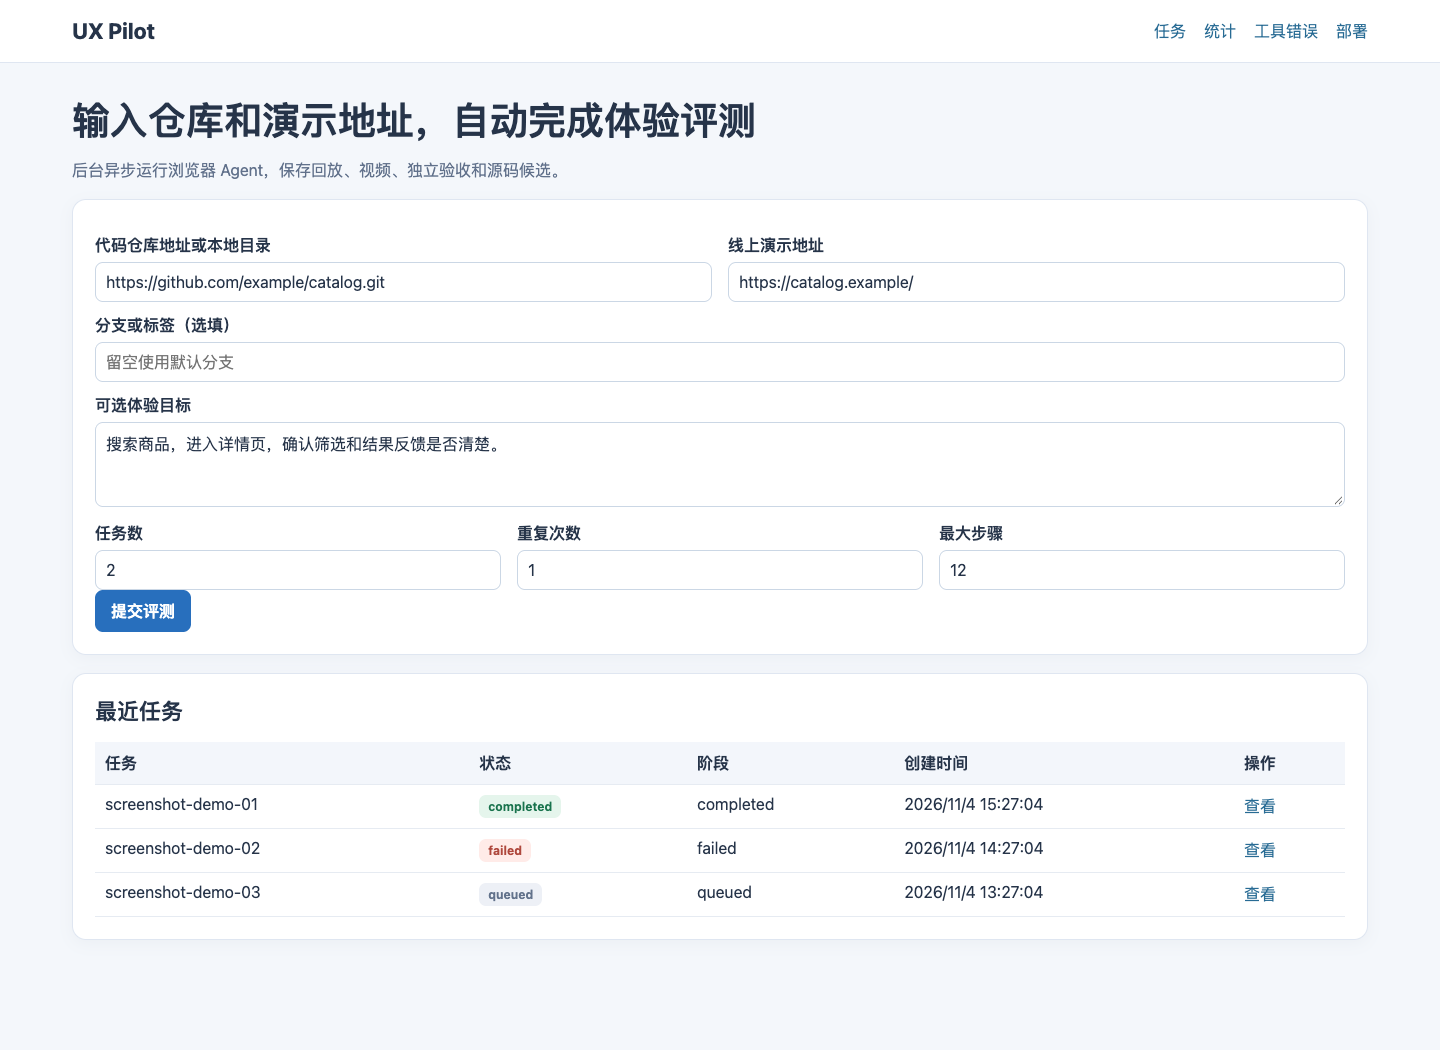
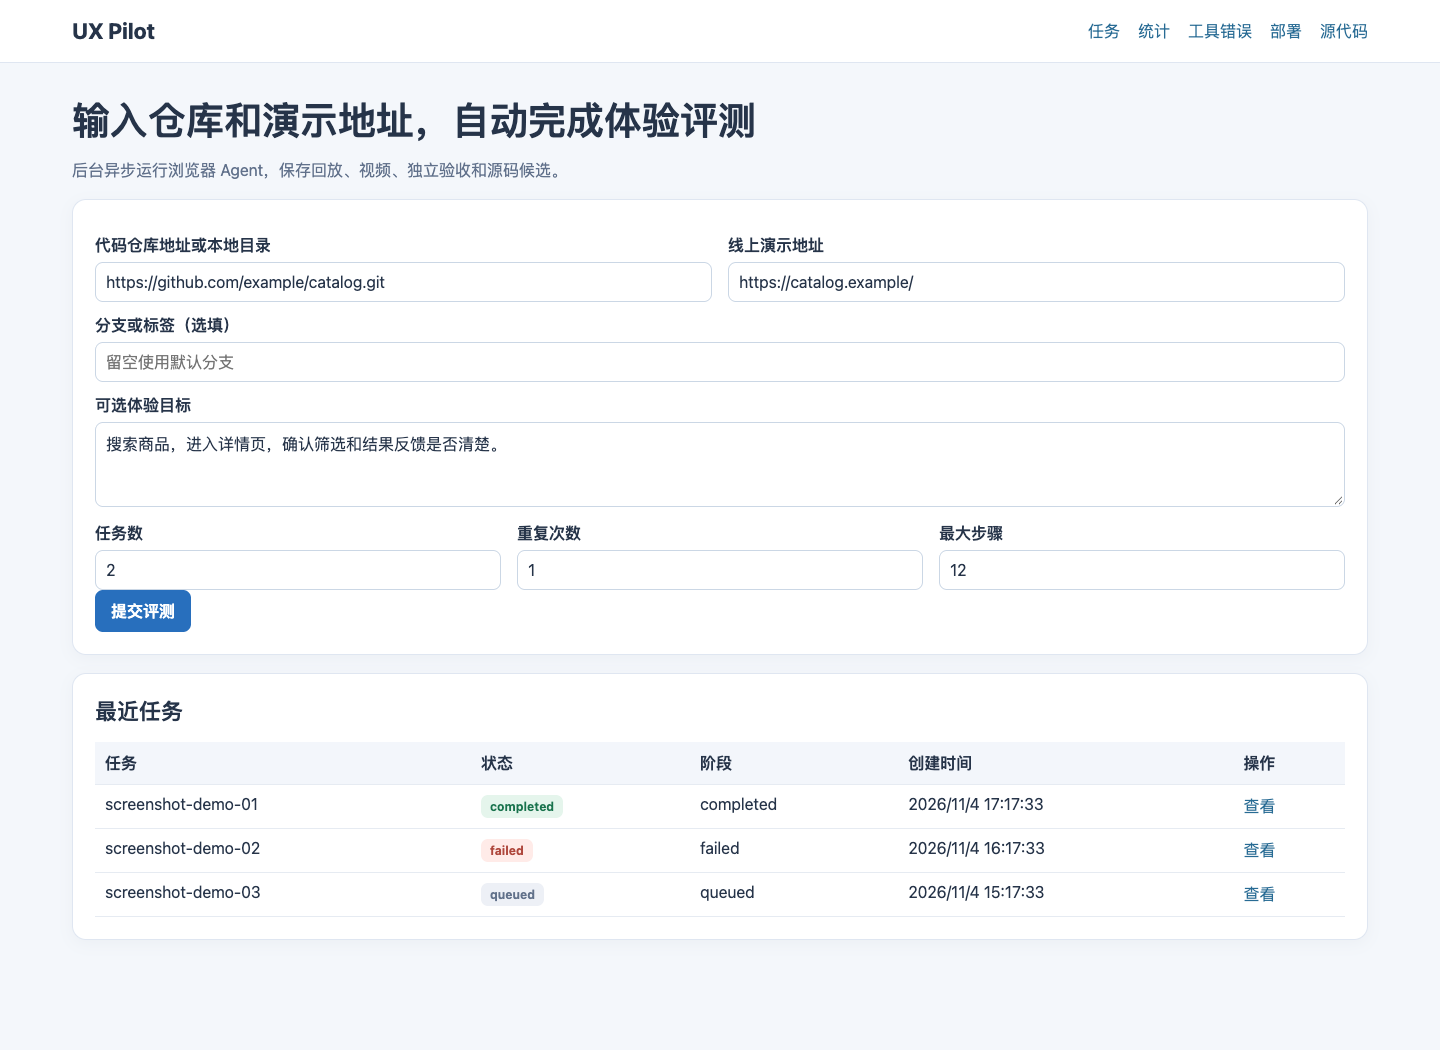
feat: link source repository from header navigation

diff --git a/src/ai_ux/web/deploys.css b/src/ai_ux/web/deploys.css
@@ -1,1 +1,3 @@
 :root{color-scheme:light;--bg:#f6f7f2;--ink:#2b3429;--muted:#79836f;--green:#607c32;--line:#e1e5d9}*{box-sizing:border-box}body{margin:0;background:var(--bg);color:var(--ink);font-family:Inter,-apple-system,BlinkMacSystemFont,"Segoe UI","PingFang SC","Microsoft YaHei",sans-serif}a{color:var(--green);text-decoration:none}a:hover{text-decoration:underline}button,a,summary{touch-action:manipulation}a:focus-visible,button:focus-visible,.table-scroll:focus-visible{outline:2px solid var(--green);outline-offset:4px}.topbar{min-height:84px;padding:20px 4.5%;border-bottom:1px solid var(--line);display:flex;align-items:center;justify-content:space-between;gap:24px}.brand{display:flex;align-items:center;gap:14px;font-weight:600;color:var(--ink);font-size:17px}.brand-mark{font-weight:750;font-size:29px;letter-spacing:-2px}.brand-mark span{font-size:10px;color:#8aab56;vertical-align:top;letter-spacing:0;margin-left:2px}nav{display:flex;gap:28px;font-size:13px}nav a{color:var(--muted)}nav a[aria-current]{color:var(--ink)}main{max-width:1500px;margin:auto;padding:56px 4.5% 28px}.intro{display:flex;align-items:center;justify-content:space-between;gap:24px;margin-bottom:36px}.eyebrow{font-size:10px;letter-spacing:2.5px;color:var(--muted);margin:0 0 15px}h1{font-size:34px;letter-spacing:-1px;font-weight:550;margin:0 0 14px}.subtitle{font-size:14px;line-height:1.8;color:var(--muted);margin:0}button{border:1px solid #ccd4bd;background:#fff;border-radius:9px;padding:11px 17px;color:var(--ink);font:inherit;font-size:13px;cursor:pointer;white-space:nowrap}button:disabled{opacity:.5}.card{padding:28px;background:#fff;border:1px solid var(--line);border-radius:18px;margin-bottom:24px}.section-heading{display:flex;align-items:center;justify-content:space-between;gap:16px}h2{font-size:17px;font-weight:550;margin:0}.tag{display:inline-block;font-size:11px;padding:6px 10px;border-radius:6px;background:#eff3e7;color:#607c32}.tag.warn{background:#fff2df;color:#946525}.tag.fail{background:#fcece6;color:#a15b3d}.release-version{font-size:25px;letter-spacing:-.5px;overflow-wrap:anywhere;margin:24px 0}.release-facts{display:grid;grid-template-columns:1.5fr 1fr 1.5fr;gap:25px;margin:26px 0}.release-facts dt{font-size:11px;color:var(--muted);margin-bottom:9px}.release-facts dd{margin:0;font-size:14px;overflow-wrap:anywhere}.mono{font-family:ui-monospace,SFMono-Regular,Consolas,monospace}.note{font-size:12px;color:var(--muted);line-height:1.8}.table-scroll{overflow:auto;margin-top:22px}table{width:100%;min-width:1080px;border-collapse:collapse;text-align:left}th{font-size:11px;color:var(--muted);font-weight:500;padding:14px 12px;background:#f7f8f4}td{font-size:12px;vertical-align:top;padding:20px 12px;border-bottom:1px solid #edf0e7;line-height:1.6}td:first-child{max-width:240px;overflow-wrap:anywhere}td strong,td small{display:block}td small{font-size:11px;color:var(--muted);margin-top:7px}td strong{font-weight:550}td:last-child{min-width:250px;max-width:360px}td ul{margin:0;padding-left:16px}.success{color:#557732}.failed{color:#a15b3d}.notice{color:#a15b3d;padding:16px;border:1px solid #e6bba7;border-radius:9px;background:#fff7f2;font-size:13px}.batch{padding:20px 0;border-bottom:1px solid var(--line)}.batch-title{display:flex;gap:16px;justify-content:space-between;flex-wrap:wrap;font-size:13px}.tasks{display:flex;flex-wrap:wrap;gap:10px;margin-top:14px}.task{border:1px solid var(--line);background:#fafbf8;border-radius:8px;padding:9px 12px;font-size:12px;line-height:1.9}.task small{display:block;color:var(--muted)}footer{display:flex;justify-content:center;gap:10px;color:#959d8d;font-size:11px;padding:15px 0 5px}@media(max-width:760px){.topbar{padding:18px 20px;align-items:flex-start;flex-direction:column;gap:18px}.brand{font-size:15px}nav{gap:22px;font-size:12px}main{padding:32px 16px 20px}.intro{align-items:flex-start;gap:12px}h1{font-size:26px}.subtitle{font-size:12px}.intro button{font-size:11px;padding:9px 10px}.card{padding:20px}.release-facts{grid-template-columns:1fr;gap:18px}.release-version{font-size:21px}.section-heading{align-items:flex-start}.section-heading>.note{max-width:140px;font-size:10px;text-align:right}footer{font-size:10px;gap:5px;flex-wrap:wrap}}
+
+.topbar nav{flex-wrap:wrap}

diff --git a/src/ai_ux/webstatic/index.html b/src/ai_ux/webstatic/index.html
@@ -1,1 +1,1 @@
-<!doctype html><html lang="zh-CN"><head><meta charset="utf-8"><meta name="viewport" content="width=device-width,initial-scale=1"><title>UX Pilot</title><link rel="stylesheet" href="/static/style.css"></head><body><header><a class="brand" href="/">UX Pilot</a><nav><a href="/jobs">任务</a><a href="/stats">统计</a><a href="/errors">工具错误</a><a href="/deploys">部署</a></nav></header><main><section><h1>输入仓库和演示地址，自动完成体验评测</h1><p class="subtitle">后台异步运行浏览器 Agent，保存回放、视频、独立验收和源码候选。</p></section><form id="form" class="panel"><div class="grid-2"><div><label>代码仓库地址或本地目录</label><input id="repo" required placeholder="https://github.com/org/project.git"></div><div><label>线上演示地址</label><input id="url" required placeholder="https://demo.example.com/"></div></div><label>分支或标签（选填）</label><input id="ref" placeholder="留空使用默认分支"><label>可选体验目标</label><textarea id="goal" placeholder="例如：第一次使用者完成一次核心操作，并确认成功反馈"></textarea><div class="grid"><div><label>任务数</label><input id="tasks" type="number" min="1" max="5" value="2"></div><div><label>重复次数</label><input id="repeats" type="number" min="1" max="3" value="1"></div><div><label>最大步骤</label><input id="max_steps" type="number" min="1" max="30" value="12"></div></div><p id="error" class="status failed hidden"></p><button>提交评测</button></form><section class="panel"><h2>最近任务</h2><div id="recent" class="table-wrap">加载中…</div></section></main><script src="/static/app.js"></script></body></html>
+<!doctype html><html lang="zh-CN"><head><meta charset="utf-8"><meta name="viewport" content="width=device-width,initial-scale=1"><title>UX Pilot</title><link rel="stylesheet" href="/static/style.css"></head><body><header><a class="brand" href="/">UX Pilot</a><nav><a href="/jobs">任务</a><a href="/stats">统计</a><a href="/errors">工具错误</a><a href="/deploys">部署</a><a href="https://github.com/zhoutingunl/uxpilot" target="_blank" rel="noopener noreferrer">源代码</a></nav></header><main><section><h1>输入仓库和演示地址，自动完成体验评测</h1><p class="subtitle">后台异步运行浏览器 Agent，保存回放、视频、独立验收和源码候选。</p></section><form id="form" class="panel"><div class="grid-2"><div><label>代码仓库地址或本地目录</label><input id="repo" required placeholder="https://github.com/org/project.git"></div><div><label>线上演示地址</label><input id="url" required placeholder="https://demo.example.com/"></div></div><label>分支或标签（选填）</label><input id="ref" placeholder="留空使用默认分支"><label>可选体验目标</label><textarea id="goal" placeholder="例如：第一次使用者完成一次核心操作，并确认成功反馈"></textarea><div class="grid"><div><label>任务数</label><input id="tasks" type="number" min="1" max="5" value="2"></div><div><label>重复次数</label><input id="repeats" type="number" min="1" max="3" value="1"></div><div><label>最大步骤</label><input id="max_steps" type="number" min="1" max="30" value="12"></div></div><p id="error" class="status failed hidden"></p><button>提交评测</button></form><section class="panel"><h2>最近任务</h2><div id="recent" class="table-wrap">加载中…</div></section></main><script src="/static/app.js"></script></body></html>

diff --git a/src/ai_ux/webstatic/errors.html b/src/ai_ux/webstatic/errors.html
@@ -1,1 +1,1 @@
-<!doctype html><html lang="zh-CN"><head><meta charset="utf-8"><meta name="viewport" content="width=device-width,initial-scale=1"><title>工具错误聚类</title><link rel="stylesheet" href="/static/style.css"></head><body><header><a class="brand" href="/">UX Pilot</a><nav><a href="/jobs">任务</a><a href="/stats">统计</a><a href="/deploys">部署</a></nav></header><main><h1>工具错误聚类</h1><p class="subtitle">按工具、类别和归一化签名聚类，支持标记修复状态，方便批量修改。</p><div class="toolbar"><select id="state"><option value="">全部状态</option><option value="open">待处理</option><option value="investigating">处理中</option><option value="fixed">已修复</option><option value="ignored">忽略</option></select><button id="refresh">刷新</button><button id="mark">批量标记选中</button><select id="markState"><option value="investigating">处理中</option><option value="fixed">已修复</option><option value="ignored">忽略</option></select></div><div id="app">加载中…</div></main><script src="/static/errors.js"></script></body></html>
+<!doctype html><html lang="zh-CN"><head><meta charset="utf-8"><meta name="viewport" content="width=device-width,initial-scale=1"><title>工具错误聚类</title><link rel="stylesheet" href="/static/style.css"></head><body><header><a class="brand" href="/">UX Pilot</a><nav><a href="/jobs">任务</a><a href="/stats">统计</a><a href="/deploys">部署</a><a href="https://github.com/zhoutingunl/uxpilot" target="_blank" rel="noopener noreferrer">源代码</a></nav></header><main><h1>工具错误聚类</h1><p class="subtitle">按工具、类别和归一化签名聚类，支持标记修复状态，方便批量修改。</p><div class="toolbar"><select id="state"><option value="">全部状态</option><option value="open">待处理</option><option value="investigating">处理中</option><option value="fixed">已修复</option><option value="ignored">忽略</option></select><button id="refresh">刷新</button><button id="mark">批量标记选中</button><select id="markState"><option value="investigating">处理中</option><option value="fixed">已修复</option><option value="ignored">忽略</option></select></div><div id="app">加载中…</div></main><script src="/static/errors.js"></script></body></html>

diff --git a/src/ai_ux/web/deploys.html b/src/ai_ux/web/deploys.html
@@ -2,7 +2,7 @@
 <html lang="zh-CN">
 <head><meta charset="utf-8"><meta name="viewport" content="width=device-width,initial-scale=1"><meta name="theme-color" content="#f6f7f2"><title>DuckKing UX Agent · 部署记录</title><link rel="stylesheet" href="./deploys.css"></head>
 <body>
-<header class="topbar"><a class="brand" href="./"><span class="brand-mark">ux<span>●</span></span>DuckKing UX Agent</a><nav aria-label="页面导航"><a href="./">新建评测</a><a href="./stats">统计</a><a href="./errors">工具错误</a><a href="./jobs">任务与回放</a><a href="./deploys.html" aria-current="page">部署记录</a><a href="#evaluations">评测报告</a><a href="https://duck.qbox.net/" target="_blank" rel="noopener">DuckKing ↗</a></nav></header>
+<header class="topbar"><a class="brand" href="./"><span class="brand-mark">ux<span>●</span></span>DuckKing UX Agent</a><nav aria-label="页面导航"><a href="./">新建评测</a><a href="./stats">统计</a><a href="./errors">工具错误</a><a href="./jobs">任务与回放</a><a href="./deploys.html" aria-current="page">部署记录</a><a href="https://github.com/zhoutingunl/uxpilot" target="_blank" rel="noopener noreferrer">源代码</a><a href="#evaluations">评测报告</a><a href="https://duck.qbox.net/" target="_blank" rel="noopener">DuckKing ↗</a></nav></header>
 <main>
 <section class="intro"><div><p class="eyebrow">RELEASE JOURNAL</p><h1>每次上线，都有记录。</h1><p class="subtitle">核对评测工具的运行版本，回看发布验证与真实评测结果。</p></div><button id="refresh-deploys">刷新记录</button></section>
 <p id="deploy-error" class="notice" role="alert" hidden></p>

diff --git a/src/ai_ux/webstatic/deploys.html b/src/ai_ux/webstatic/deploys.html
@@ -1,1 +1,1 @@
-<!doctype html><html lang="zh-CN"><head><meta charset="utf-8"><meta name="viewport" content="width=device-width,initial-scale=1"><title>UX Pilot 部署记录</title><link rel="stylesheet" href="/static/style.css"></head><body><header><a class="brand" href="/">UX Pilot</a><nav><a href="/jobs">任务</a><a href="/stats">统计</a><a href="/errors">工具错误</a></nav></header><main><h1>部署记录</h1><p class="subtitle">开发启动不自动标记为成功部署；成功记录必须绑定提交、目标和验收检查。</p><div id="app">加载中…</div></main><script src="/static/deploys.js"></script></body></html>
+<!doctype html><html lang="zh-CN"><head><meta charset="utf-8"><meta name="viewport" content="width=device-width,initial-scale=1"><title>UX Pilot 部署记录</title><link rel="stylesheet" href="/static/style.css"></head><body><header><a class="brand" href="/">UX Pilot</a><nav><a href="/jobs">任务</a><a href="/stats">统计</a><a href="/errors">工具错误</a><a href="/deploys" aria-current="page">部署</a><a href="https://github.com/zhoutingunl/uxpilot" target="_blank" rel="noopener noreferrer">源代码</a></nav></header><main><h1>部署记录</h1><p class="subtitle">开发启动不自动标记为成功部署；成功记录必须绑定提交、目标和验收检查。</p><div id="app">加载中…</div></main><script src="/static/deploys.js"></script></body></html>

diff --git a/src/ai_ux/web/index.html b/src/ai_ux/web/index.html
@@ -2,7 +2,7 @@
 <html lang="zh-CN">
 <head><meta charset="utf-8"><meta name="viewport" content="width=device-width,initial-scale=1"><meta name="theme-color" content="#f6f7f2"><title>DuckKing UX Agent · 体验评测</title><link rel="stylesheet" href="./deploys.css"><link rel="stylesheet" href="./workbench.css"></head>
 <body>
-<header class="topbar"><a class="brand" href="./"><span class="brand-mark">ux<span>●</span></span>DuckKing UX Agent</a><nav aria-label="页面导航"><a href="#new-review" aria-current="page">新建评测</a><a href="#reviews">评测记录</a><a href="./deploys.html">部署记录</a></nav></header>
+<header class="topbar"><a class="brand" href="./"><span class="brand-mark">ux<span>●</span></span>DuckKing UX Agent</a><nav aria-label="页面导航"><a href="#new-review" aria-current="page">新建评测</a><a href="#reviews">评测记录</a><a href="./deploys.html">部署记录</a><a href="https://github.com/zhoutingunl/uxpilot" target="_blank" rel="noopener noreferrer">源代码</a></nav></header>
 <main>
 <section class="intro"><div><p class="eyebrow">UX REVIEW WORKBENCH</p><h1>输入项目，开始一次真实体验。</h1><p class="subtitle">从仓库了解产品，在真实网站上操作，用录屏和证据回看体验。</p></div><span class="tag">自动规划 · 浏览器操作 · 视频评审</span></section>
 <div class="workspace">

diff --git a/src/ai_ux/webstatic/stats.html b/src/ai_ux/webstatic/stats.html
@@ -1,1 +1,1 @@
-<!doctype html><html lang="zh-CN"><head><meta charset="utf-8"><meta name="viewport" content="width=device-width,initial-scale=1"><title>UX Pilot 统计</title><link rel="stylesheet" href="/static/style.css"></head><body><header><a class="brand" href="/">UX Pilot</a><nav><a href="/jobs">任务</a><a href="/errors">工具错误</a><a href="/deploys">部署</a></nav></header><main><h1>统计分析</h1><p class="subtitle">每日提交数、排队/执行/总耗时、模型调用与 token 用量。</p><div id="app">加载中…</div></main><script src="/static/stats.js"></script></body></html>
+<!doctype html><html lang="zh-CN"><head><meta charset="utf-8"><meta name="viewport" content="width=device-width,initial-scale=1"><title>UX Pilot 统计</title><link rel="stylesheet" href="/static/style.css"></head><body><header><a class="brand" href="/">UX Pilot</a><nav><a href="/jobs">任务</a><a href="/errors">工具错误</a><a href="/deploys">部署</a><a href="https://github.com/zhoutingunl/uxpilot" target="_blank" rel="noopener noreferrer">源代码</a></nav></header><main><h1>统计分析</h1><p class="subtitle">每日提交数、排队/执行/总耗时、模型调用与 token 用量。</p><div id="app">加载中…</div></main><script src="/static/stats.js"></script></body></html>

diff --git a/src/ai_ux/webstatic/jobs.html b/src/ai_ux/webstatic/jobs.html
@@ -1,1 +1,1 @@
-<!doctype html><html lang="zh-CN"><head><meta charset="utf-8"><meta name="viewport" content="width=device-width,initial-scale=1"><title>UX Pilot 任务</title><link rel="stylesheet" href="/static/style.css"></head><body><header><a class="brand" href="/">UX Pilot</a><nav><a href="/stats">统计</a><a href="/errors">工具错误</a><a href="/deploys">部署</a></nav></header><main><h1>评测任务</h1><div id="app">选择一个任务…</div></main><script src="/static/jobs.js"></script></body></html>
+<!doctype html><html lang="zh-CN"><head><meta charset="utf-8"><meta name="viewport" content="width=device-width,initial-scale=1"><title>UX Pilot 任务</title><link rel="stylesheet" href="/static/style.css"></head><body><header><a class="brand" href="/">UX Pilot</a><nav><a href="/stats">统计</a><a href="/errors">工具错误</a><a href="/deploys">部署</a><a href="https://github.com/zhoutingunl/uxpilot" target="_blank" rel="noopener noreferrer">源代码</a></nav></header><main><h1>评测任务</h1><div id="app">选择一个任务…</div></main><script src="/static/jobs.js"></script></body></html>
